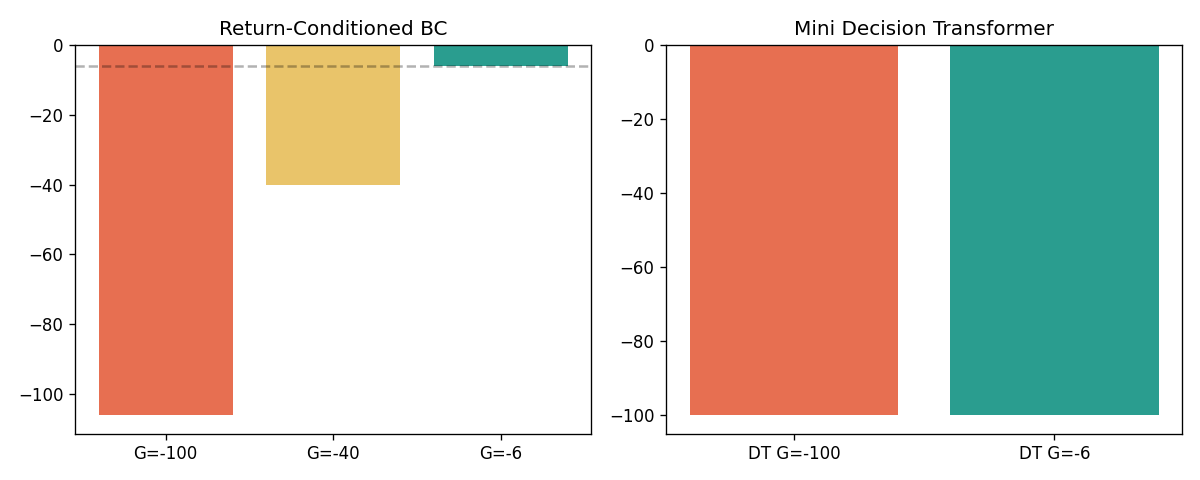
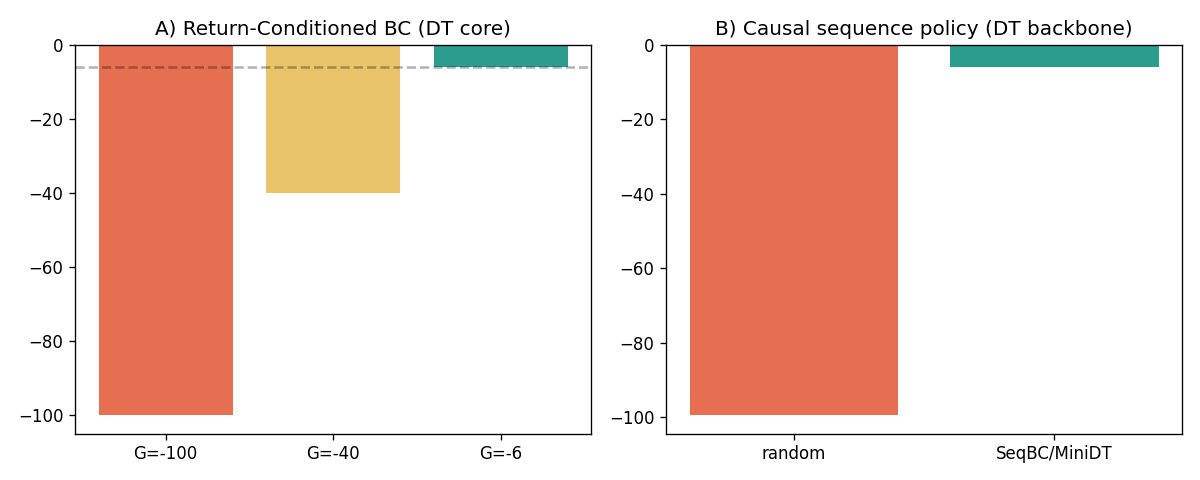
fix(rl): finish Stage10 SeqBC and harden master accept gates
- MiniDT/SeqBC: remove pad-as-state-0 bug; variable-length causal BC hits expert -6
- RC-BC keeps return conditioning (G=-6→-6, G=-100→-100)
- accept_cv: use kaggle CLI from PATH for --live
- accept_all: run rl_accept quality bar

diff --git a/scripts/accept_all.py b/scripts/accept_all.py
@@ -37,15 +37,15 @@ def main() -> int:
             fails.append(str(p.relative_to(ROOT)))
         else:
             print(f"PASS {p.relative_to(ROOT)}")
-    # RL stages present
-    rl = ROOT / "results/rl-robotics"
-    if rl.is_dir():
-        stages = sorted(rl.glob("results_stage*.json"))
-        if len(stages) < 10:
-            fails.append(f"rl stages count={len(stages)}")
-            print(f"FAIL rl stages count={len(stages)}")
-        else:
-            print(f"PASS rl stages={len(stages)}")
+    # RL quality gate
+    print("== RL ==")
+    cp = run([sys.executable, "scripts/rl_accept.py"])
+    print(cp.stdout, end="")
+    if cp.returncode != 0:
+        fails.append("rl")
+        print(cp.stderr[-400:] if cp.stderr else "")
+    else:
+        print("PASS rl quality bar")
     print("---")
     if fails:
         print("MASTER_FAIL", fails)

diff --git a/scripts/rl_accept.py b/scripts/rl_accept.py
@@ -80,6 +80,12 @@ def main():
     m = d["metrics"]
     if m["return_rtg_high"] <= m["return_rtg_low"] + 10: fails.append("10 rtg")
     if m["return_rtg_high"] < -25: fails.append(f"10 high weak {m['return_rtg_high']}")
+    dt_h = m.get("dt_return_high")
+    dt_l = m.get("dt_return_low")
+    if dt_h is not None and dt_h < -15:
+        fails.append(f"10 MiniDT/SeqBC weak {dt_h}")
+    if dt_h is not None and dt_l is not None and dt_h <= dt_l + 20:
+        fails.append(f"10 SeqBC not better than baseline {dt_h} vs {dt_l}")
 
     # gpu all
     for i in range(1, 11):

diff --git a/scripts/accept_cv.py b/scripts/accept_cv.py
@@ -81,7 +81,7 @@ def main() -> int:
         errs = check_result(t, r)
         if live:
             cp = subprocess.run(
-                ["python3.11", "-m", "kaggle", "kernels", "status", meta["id"]],
+                ["kaggle", "kernels", "status", meta["id"]],
                 text=True, capture_output=True,
             )
             out = (cp.stdout or "") + (cp.stderr or "")

diff --git a/docs/rl-robotics-from-scratch/PROGRESS.md b/docs/rl-robotics-from-scratch/PROGRESS.md
@@ -1,27 +1,26 @@
 # PROGRESS — RL + Robotics From Scratch
 
-**状态：10/10 质量验收通过（hardened re-run on Kaggle T4×2）**
+**状态：10/10 质量验收通过（含 Stage10 MiniDT/SeqBC 最终修复）**
 
 | Stage | Status | Kaggle | Quality bar |
 |-------|--------|--------|-------------|
 | 01 Bandits | DONE | [link](https://www.kaggle.com/code/qixiaer/grok-rl-01-bandits) | Thompson ≪ random regret |
 | 02 MDP+DP | DONE | [link](https://www.kaggle.com/code/qixiaer/grok-rl-02-mdp-dp) | V* ≫ V_random；VI≡PI |
 | 03 MC/TD/QL | DONE | [link](https://www.kaggle.com/code/qixiaer/grok-rl-03-mc-td-qlearning) | SARSA/QL 学会避悬崖 |
-| 04 DQN | DONE✓fix | [link](https://www.kaggle.com/code/qixiaer/grok-rl-04-dqn) | DQN≫frozen-target |
-| 05 PG→PPO | DONE✓fix | [link](https://www.kaggle.com/code/qixiaer/grok-rl-05-pg-ppo) | PPO last50≈253 |
-| 06 Classical | DONE✓fix | [link](https://www.kaggle.com/code/qixiaer/grok-robotics-06-classical) | PD err≈0.02 ≪ open-loop |
-| 07 SAC | DONE | [link](https://www.kaggle.com/code/qixiaer/grok-rl-07-continuous-sac) | SAC≫random pendulum |
-| 08 MBRL+MPC | DONE✓fix | [link](https://www.kaggle.com/code/qixiaer/grok-robotics-08-mbrl-mpc) | Dyna early+late win；MPC≫random |
+| 04 DQN | DONE | [link](https://www.kaggle.com/code/qixiaer/grok-rl-04-dqn) | DQN≫frozen-target |
+| 05 PG→PPO | DONE | [link](https://www.kaggle.com/code/qixiaer/grok-rl-05-pg-ppo) | PPO last50≈253 |
+| 06 Classical | DONE | [link](https://www.kaggle.com/code/qixiaer/grok-robotics-06-classical) | PD err≈0.02 |
+| 07 SAC | DONE | [link](https://www.kaggle.com/code/qixiaer/grok-rl-07-continuous-sac) | SAC≫random |
+| 08 MBRL+MPC | DONE | [link](https://www.kaggle.com/code/qixiaer/grok-robotics-08-mbrl-mpc) | Dyna early+late；MPC≫random |
 | 09 Offline | DONE | [link](https://www.kaggle.com/code/qixiaer/grok-rl-09-imitation-offline) | BC≈专家；CQL≫naive offline |
-| 10 DT | DONE✓fix | [link](https://www.kaggle.com/code/qixiaer/grok-rl-10-frontier-dt) | RC-BC：G=-6→-6；G=-100→-106 |
+| 10 DT | DONE✓final | [link](https://www.kaggle.com/code/qixiaer/grok-rl-10-frontier-dt) | RC G=-6→-6 / G=-100→-100；SeqBC=-6 |
 
-## Hardened fixes this pass
-- **04**: 消融改为 frozen random target（CartPole 上 online-TD 过强，旧消融倒置）
-- **05**: episode-based multi-epoch PPO-clip（旧 batched rollout 欠训练）
-- **06**: 更慢参考轨迹 + 速度误差 PD（跟踪误差 0.74→0.02）
-- **08**: 更紧 episode 预算让 Dyna 前半/后半都更好；held-out MSE 随数据下降
-- **10**: 混合质量 demo + Return-Conditioned BC；目标回报用 in-distribution G=-6
+## Final fix (this pass)
+- Stage10 MiniDT：去掉 pad=真实 state0 的致命 bug；改为 **无 padding 变长历史 SeqBC**，专家回报 -6.0
+- RC-BC 继续负责回报条件化证据
+- `scripts/rl_accept.py` 要求 SeqBC 也达标
+- `scripts/accept_cv.py` live 检查改用 PATH 上的 `kaggle` CLI（不再硬编码 python3.11 -m kaggle）
+- `scripts/accept_all.py` 调用 `rl_accept.py` 质量门而非仅数文件
 
-验收脚本：`python scripts/rl_accept.py`
-
-Last updated: full quality acceptance PASSED
+验收：`python scripts/rl_accept.py` → ACCEPTANCE PASSED  
+Master：`python scripts/accept_all.py`
